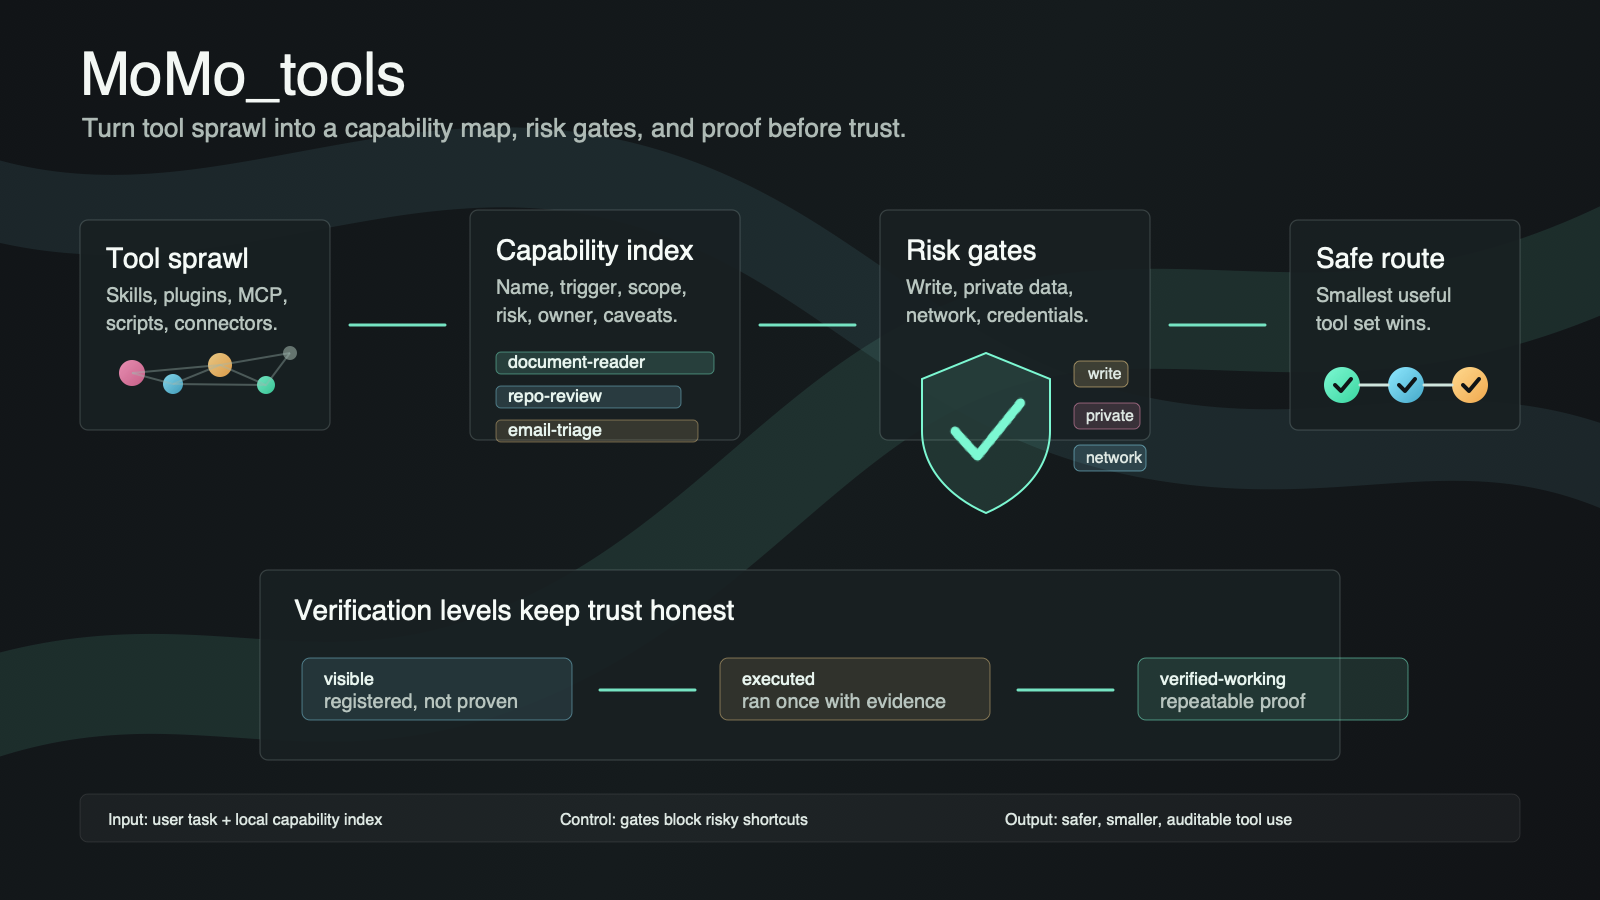
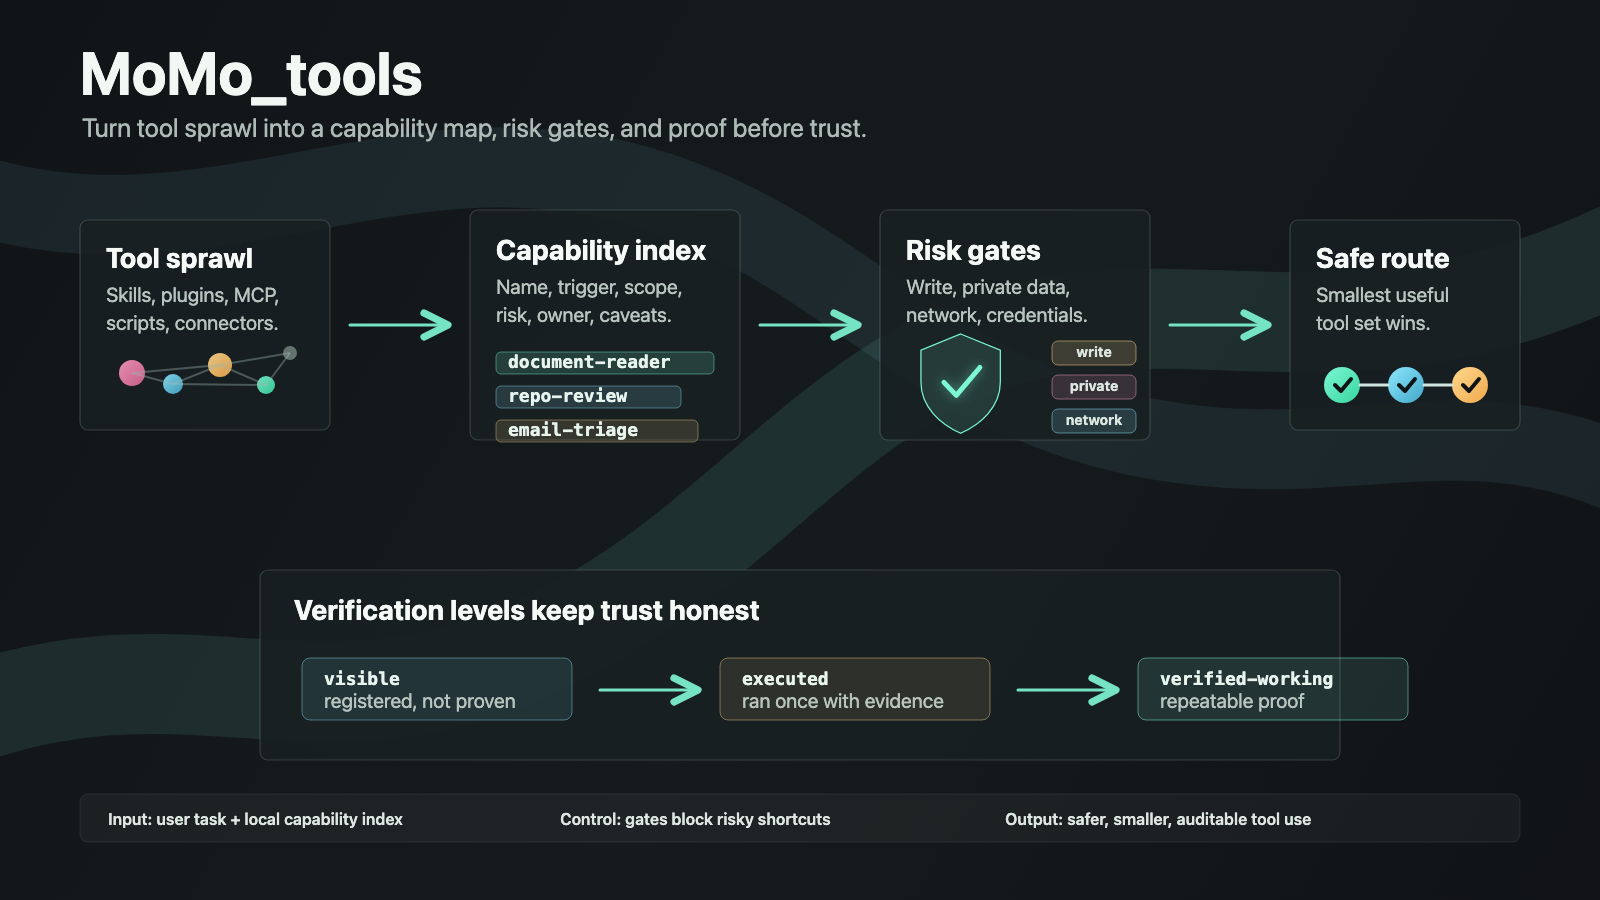
Fix workflow hero image alignment

diff --git a/README.md b/README.md
@@ -6,7 +6,7 @@
 
 MoMo_tools helps agents choose a smaller, safer capability set before they touch tools. It turns skills, plugins, MCP servers, scripts, apps, and connectors into a reviewable capability index with risk gates and verification evidence.
 
-![MoMo_tools workflow](assets/momo-tools-flow.svg)
+![MoMo_tools workflow](assets/momo-tools-flow.png)
 
 ## Why This Exists
 